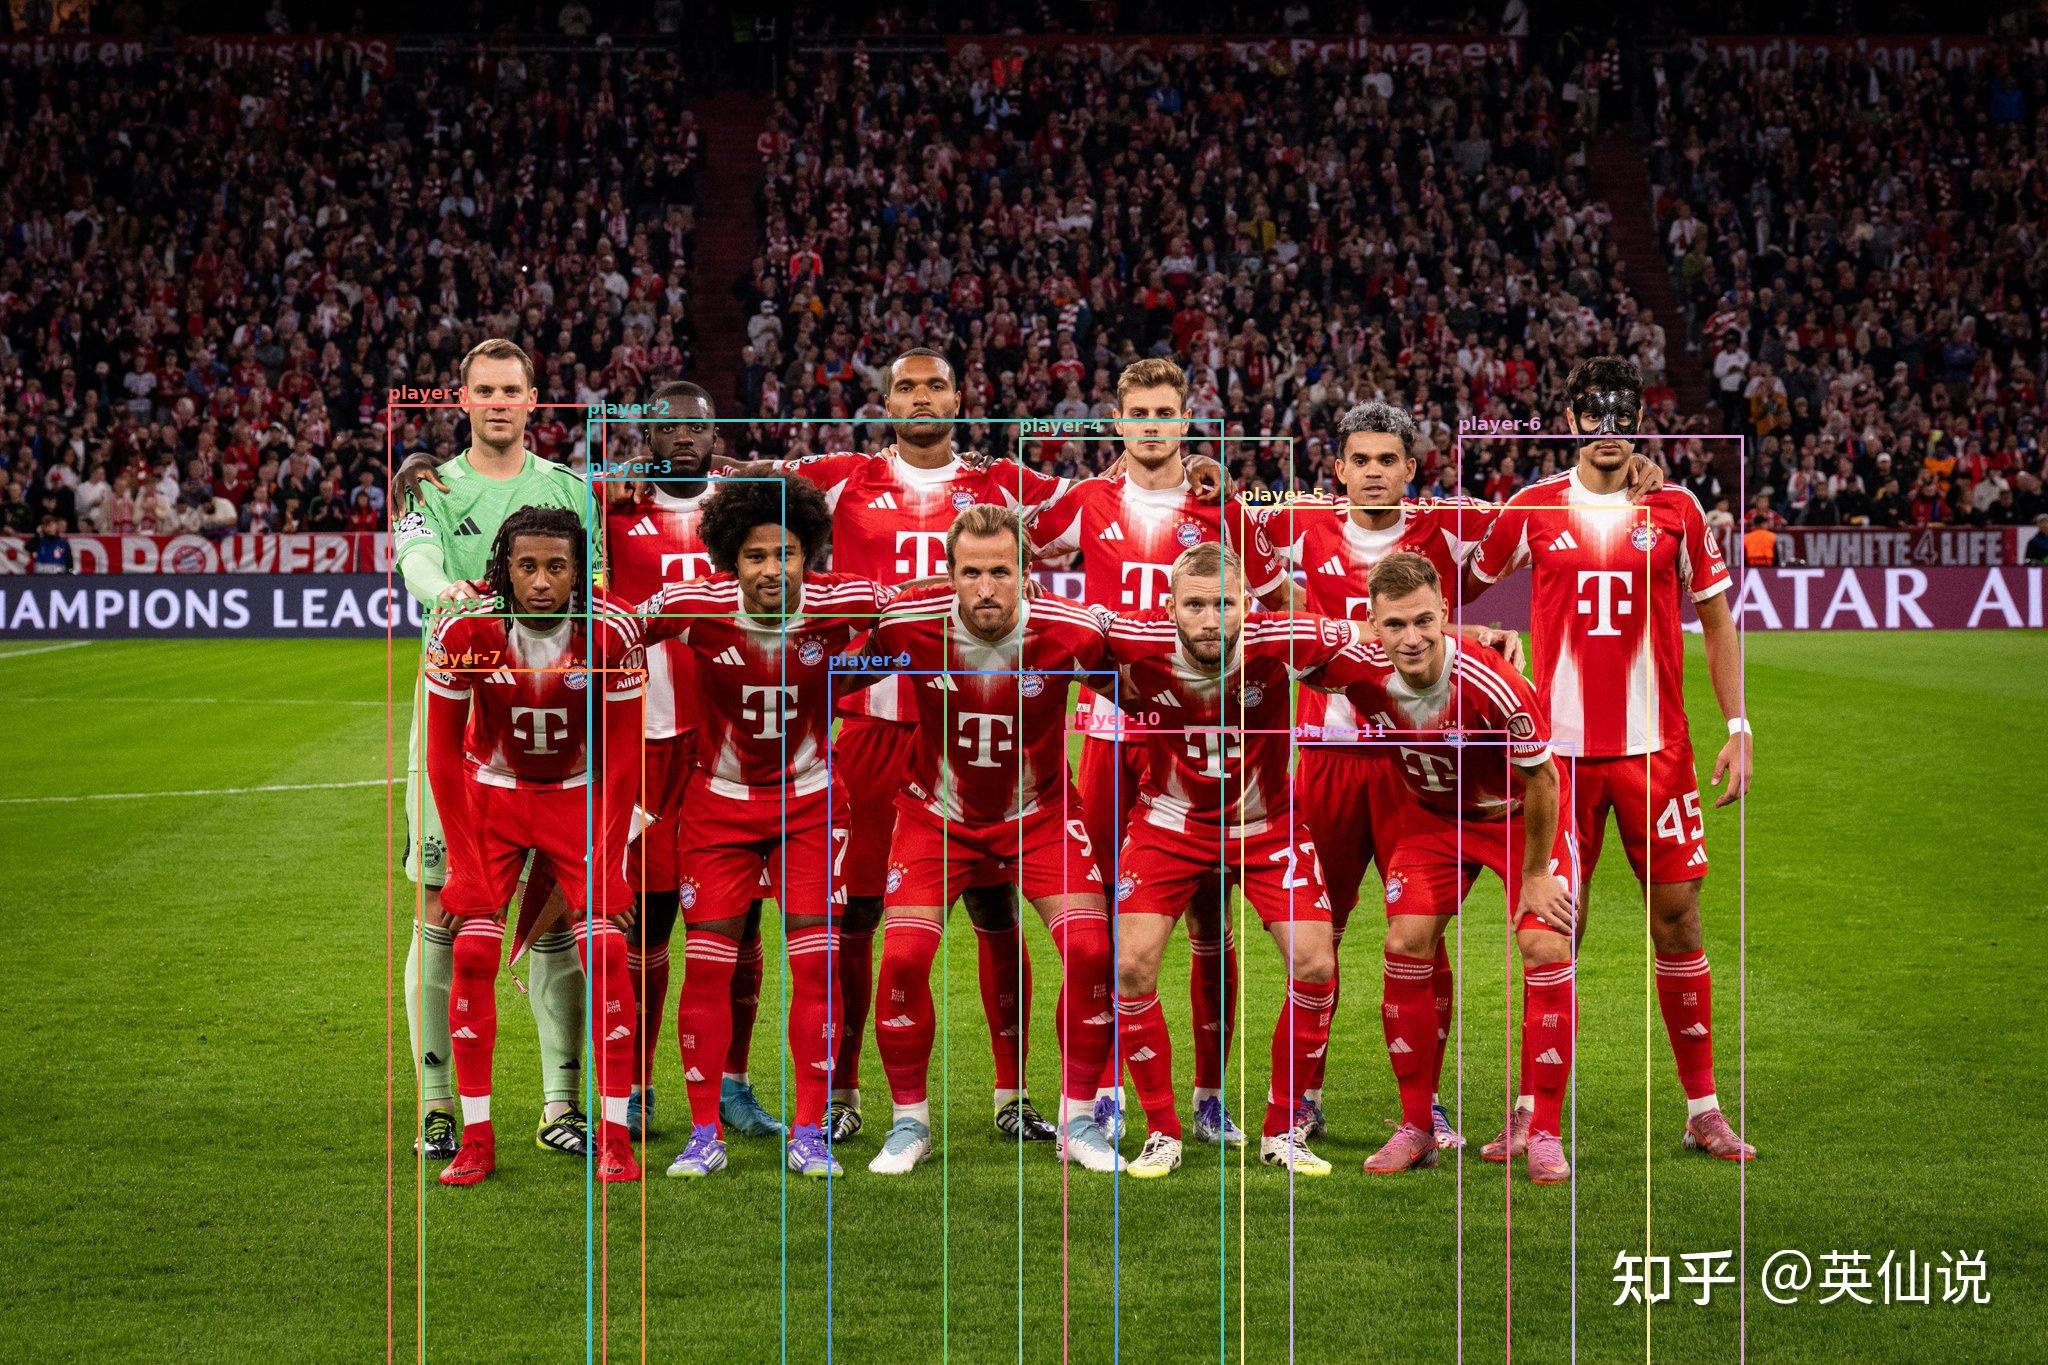
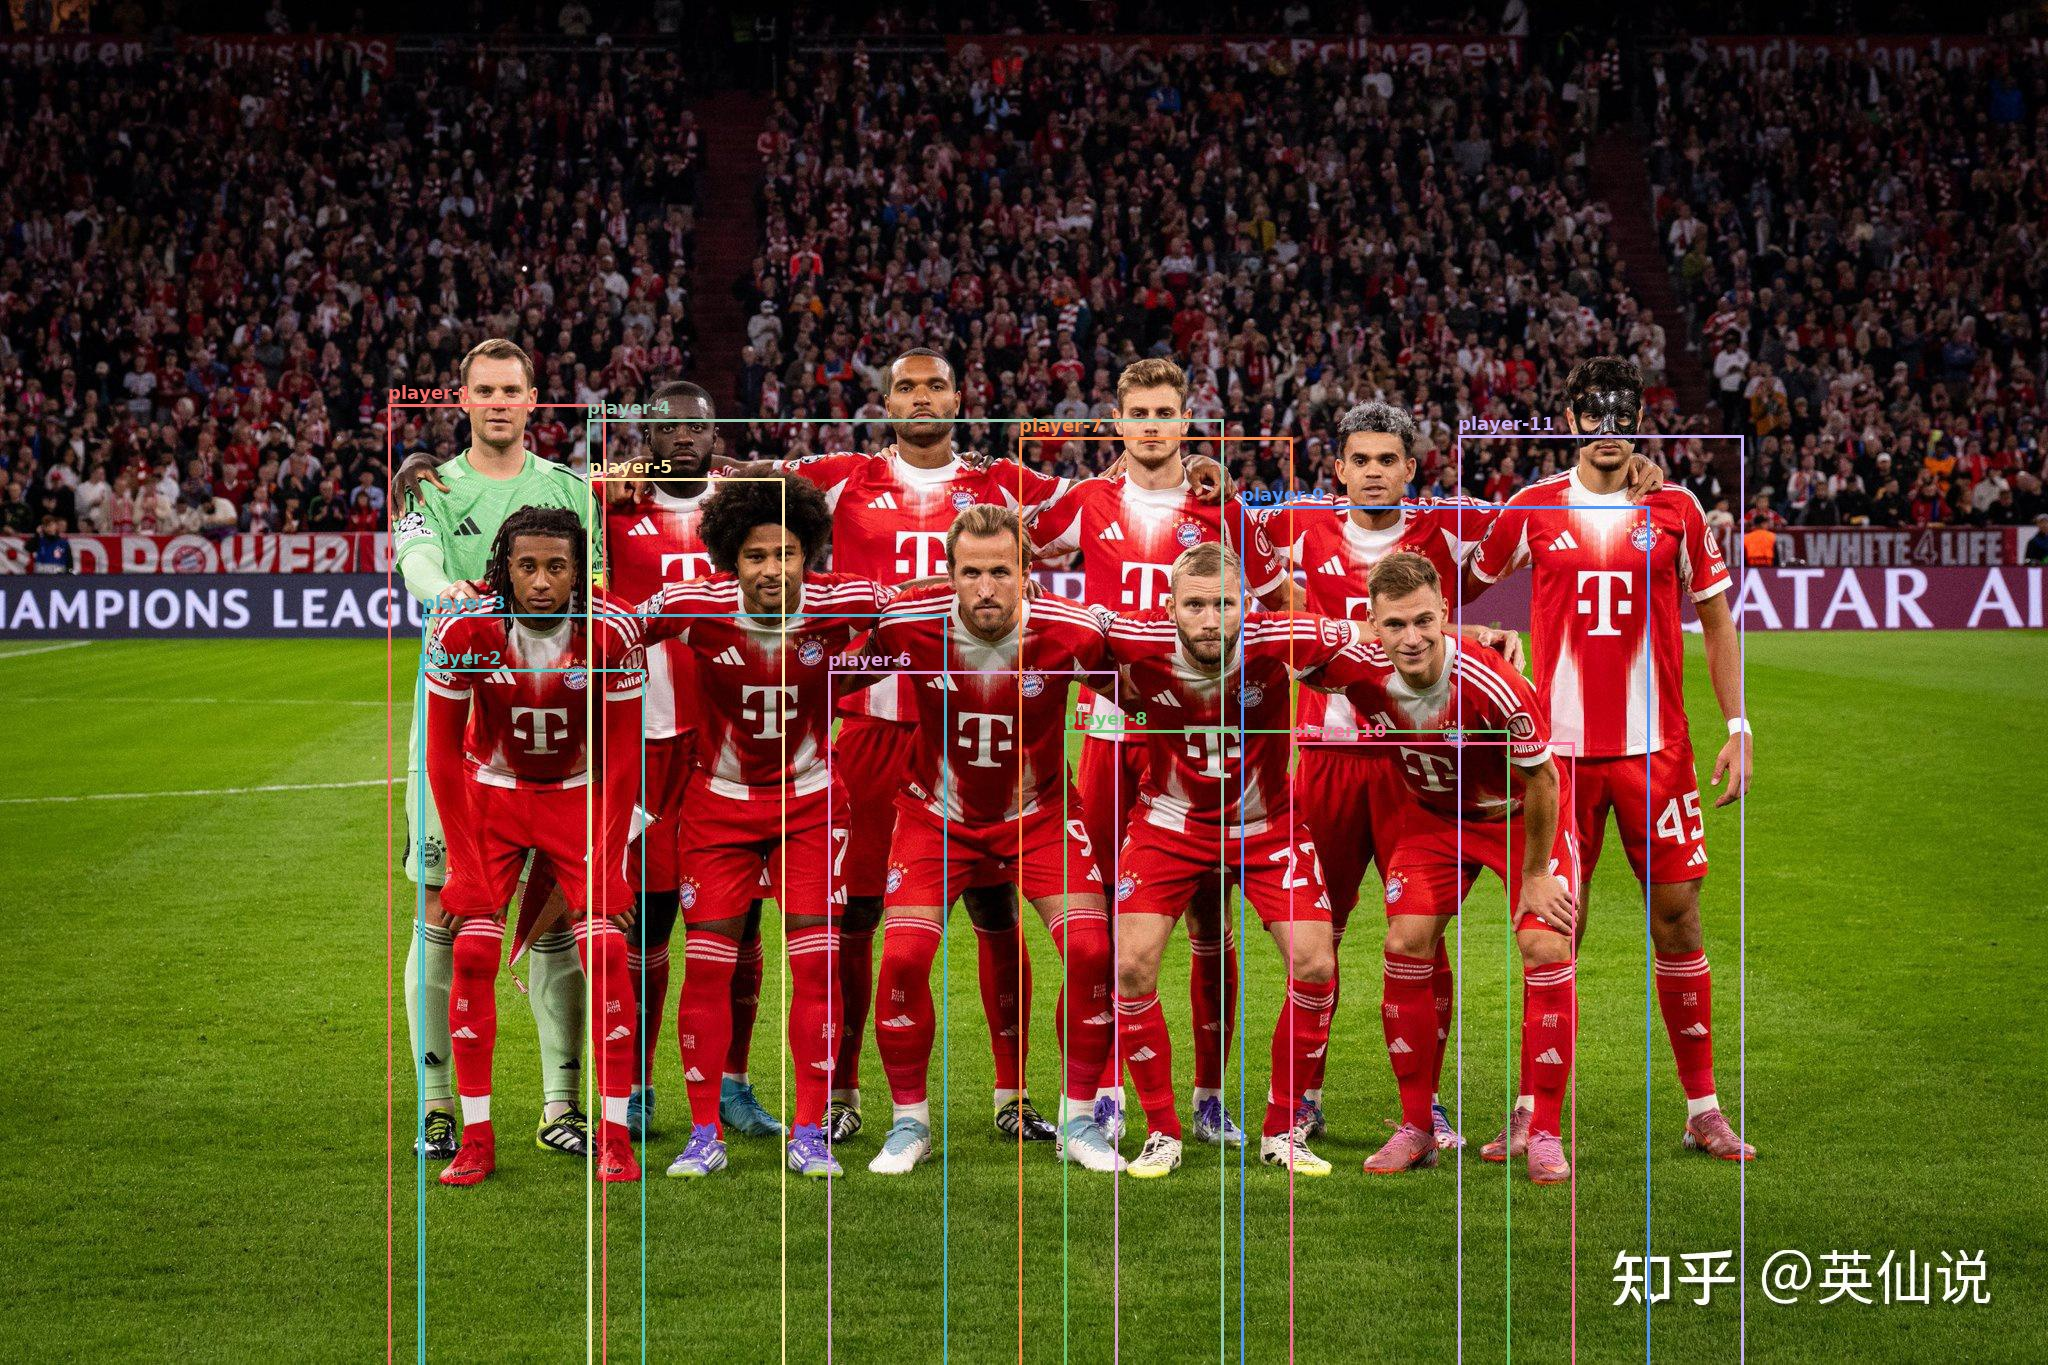
moving202606061340

diff --git a/001-Result_Show/Result_Show.html b/001-Result_Show/Result_Show.html
@@ -39,7 +39,7 @@ td:nth-child(7) { width: 8%; color: #666; font-size: 14px; font-variant-numeric:
   <td><a href="https://raw.githubusercontent.com/zhxbayernfan/RealMagic02/main/001-Result_Show/original-1.jpeg" target="_blank"><img class="thumb" src="https://raw.githubusercontent.com/zhxbayernfan/RealMagic02/main/001-Result_Show/original-1.jpeg"></a></td>
   <td><a class="code-link" href="https://github.com/zhxbayernfan/RealMagic02/blob/main/001-Result_Show/code-1.py" target="_blank">code-1.py</a></td>
   <td><a href="https://raw.githubusercontent.com/zhxbayernfan/RealMagic02/main/001-Result_Show/result-1.jpeg" target="_blank"><img class="thumb" src="https://raw.githubusercontent.com/zhxbayernfan/RealMagic02/main/001-Result_Show/result-1.jpeg"></a></td>
-  <td>3526ms</td><td>-</td>
+  <td>3526ms</td><td>8887MB</td>
 </tr>
 
 <tr>
@@ -48,7 +48,7 @@ td:nth-child(7) { width: 8%; color: #666; font-size: 14px; font-variant-numeric:
   <td><a href="https://raw.githubusercontent.com/zhxbayernfan/RealMagic02/main/001-Result_Show/original-2.jpeg" target="_blank"><img class="thumb" src="https://raw.githubusercontent.com/zhxbayernfan/RealMagic02/main/001-Result_Show/original-2.jpeg"></a></td>
   <td><a class="code-link" href="https://github.com/zhxbayernfan/RealMagic02/blob/main/001-Result_Show/code-2.py" target="_blank">code-2.py</a></td>
   <td><a href="https://raw.githubusercontent.com/zhxbayernfan/RealMagic02/main/001-Result_Show/result-2.jpeg" target="_blank"><img class="thumb" src="https://raw.githubusercontent.com/zhxbayernfan/RealMagic02/main/001-Result_Show/result-2.jpeg"></a></td>
-  <td>5188ms</td><td>-</td>
+  <td>5188ms</td><td>9155MB</td>
 </tr>
 
 <tr>
@@ -57,7 +57,7 @@ td:nth-child(7) { width: 8%; color: #666; font-size: 14px; font-variant-numeric:
   <td><a href="https://raw.githubusercontent.com/zhxbayernfan/RealMagic02/main/001-Result_Show/original-3.jpeg" target="_blank"><img class="thumb" src="https://raw.githubusercontent.com/zhxbayernfan/RealMagic02/main/001-Result_Show/original-3.jpeg"></a></td>
   <td><a class="code-link" href="https://github.com/zhxbayernfan/RealMagic02/blob/main/001-Result_Show/code-3.py" target="_blank">code-3.py</a></td>
   <td><a href="https://raw.githubusercontent.com/zhxbayernfan/RealMagic02/main/001-Result_Show/result-3.jpeg" target="_blank"><img class="thumb" src="https://raw.githubusercontent.com/zhxbayernfan/RealMagic02/main/001-Result_Show/result-3.jpeg"></a></td>
-  <td>4634ms</td><td>-</td>
+  <td>4634ms</td><td>9155MB</td>
 </tr>
 
 <tr>
@@ -66,7 +66,7 @@ td:nth-child(7) { width: 8%; color: #666; font-size: 14px; font-variant-numeric:
   <td><a href="https://raw.githubusercontent.com/zhxbayernfan/RealMagic02/main/001-Result_Show/original-4.jpg" target="_blank"><img class="thumb" src="https://raw.githubusercontent.com/zhxbayernfan/RealMagic02/main/001-Result_Show/original-4.jpg"></a></td>
   <td><a class="code-link" href="https://github.com/zhxbayernfan/RealMagic02/blob/main/001-Result_Show/code-4.py" target="_blank">code-4.py</a></td>
   <td><a href="https://raw.githubusercontent.com/zhxbayernfan/RealMagic02/main/001-Result_Show/result-4.jpg" target="_blank"><img class="thumb" src="https://raw.githubusercontent.com/zhxbayernfan/RealMagic02/main/001-Result_Show/result-4.jpg"></a></td>
-  <td>6087ms</td><td>-</td>
+  <td>6087ms</td><td>9297MB</td>
 </tr>
 
 </tbody>

diff --git a/001-Result_Show/code-1.py b/001-Result_Show/code-1.py
@@ -37,6 +37,7 @@ model = AutoModel.from_pretrained(
     trust_remote_code=True,
     torch_dtype=torch.bfloat16,
 ).to(device).eval()
+torch.cuda.reset_peak_memory_stats()
 
 # 加载并缩放图片
 print(f"加载图片: {image_path}")
@@ -156,3 +157,5 @@ if boxes:
     print(f"共检测到 {len(boxes)} 个框")
 else:
     print("未检测到任何框")
+gpu_mem = torch.cuda.max_memory_allocated() / 1024**2
+print(f"\nGPU_MEM: {gpu_mem:.0f}MB")

diff --git a/001-Result_Show/code-2.py b/001-Result_Show/code-2.py
@@ -29,6 +29,7 @@ model = AutoModel.from_pretrained(
     trust_remote_code=True,
     torch_dtype=torch.bfloat16,
 ).to(device).eval()
+torch.cuda.reset_peak_memory_stats()
 
 print(f"加载图片: {image_path}")
 image = Image.open(image_path).convert("RGB")
@@ -161,4 +162,6 @@ output_path = os.path.join(script_dir, "result-2.jpeg")
 orig_image.save(output_path, quality=95)
 print(f"已保存球员标注图: {output_path}")
 
+gpu_mem = torch.cuda.max_memory_allocated() / 1024**2
+print(f"GPU_MEM: {gpu_mem:.0f}MB")
 print("\n全部完成！")

diff --git a/001-Result_Show/code-3.py b/001-Result_Show/code-3.py
@@ -17,6 +17,7 @@ print("加载模型...")
 processor = AutoProcessor.from_pretrained(model_path, trust_remote_code=True)
 device = torch.device("cuda:0")
 model = AutoModel.from_pretrained(model_path, trust_remote_code=True, torch_dtype=torch.bfloat16).to(device).eval()
+torch.cuda.reset_peak_memory_stats()
 
 image = Image.open(image_path).convert("RGB")
 orig_w, orig_h = image.size
@@ -69,4 +70,6 @@ for i, (x1, y1, x2, y2) in enumerate(boxes):
 
 output_path = os.path.join(script_dir, "result-3.jpeg")
 image.save(output_path, quality=95)
+gpu_mem = torch.cuda.max_memory_allocated() / 1024**2
 print(f"\n奖杯标注图已保存: {output_path}")
+print(f"GPU_MEM: {gpu_mem:.0f}MB")

diff --git a/001-Result_Show/code-4.py b/001-Result_Show/code-4.py
@@ -15,6 +15,7 @@ print("加载模型...")
 processor = AutoProcessor.from_pretrained(model_path, trust_remote_code=True)
 device = torch.device("cuda:0")
 model = AutoModel.from_pretrained(model_path, trust_remote_code=True, torch_dtype=torch.bfloat16).to(device).eval()
+torch.cuda.reset_peak_memory_stats()
 
 image = Image.open(image_path).convert("RGB")
 orig_w, orig_h = image.size
@@ -123,4 +124,6 @@ for i, (x1, y1, x2, y2) in enumerate(player_boxes):
 
 output_path = os.path.join(script_dir, "result-4.jpg")
 orig_image.save(output_path, quality=95)
+gpu_mem = torch.cuda.max_memory_allocated() / 1024**2
 print(f"已保存: {output_path}")
+print(f"GPU_MEM: {gpu_mem:.0f}MB")